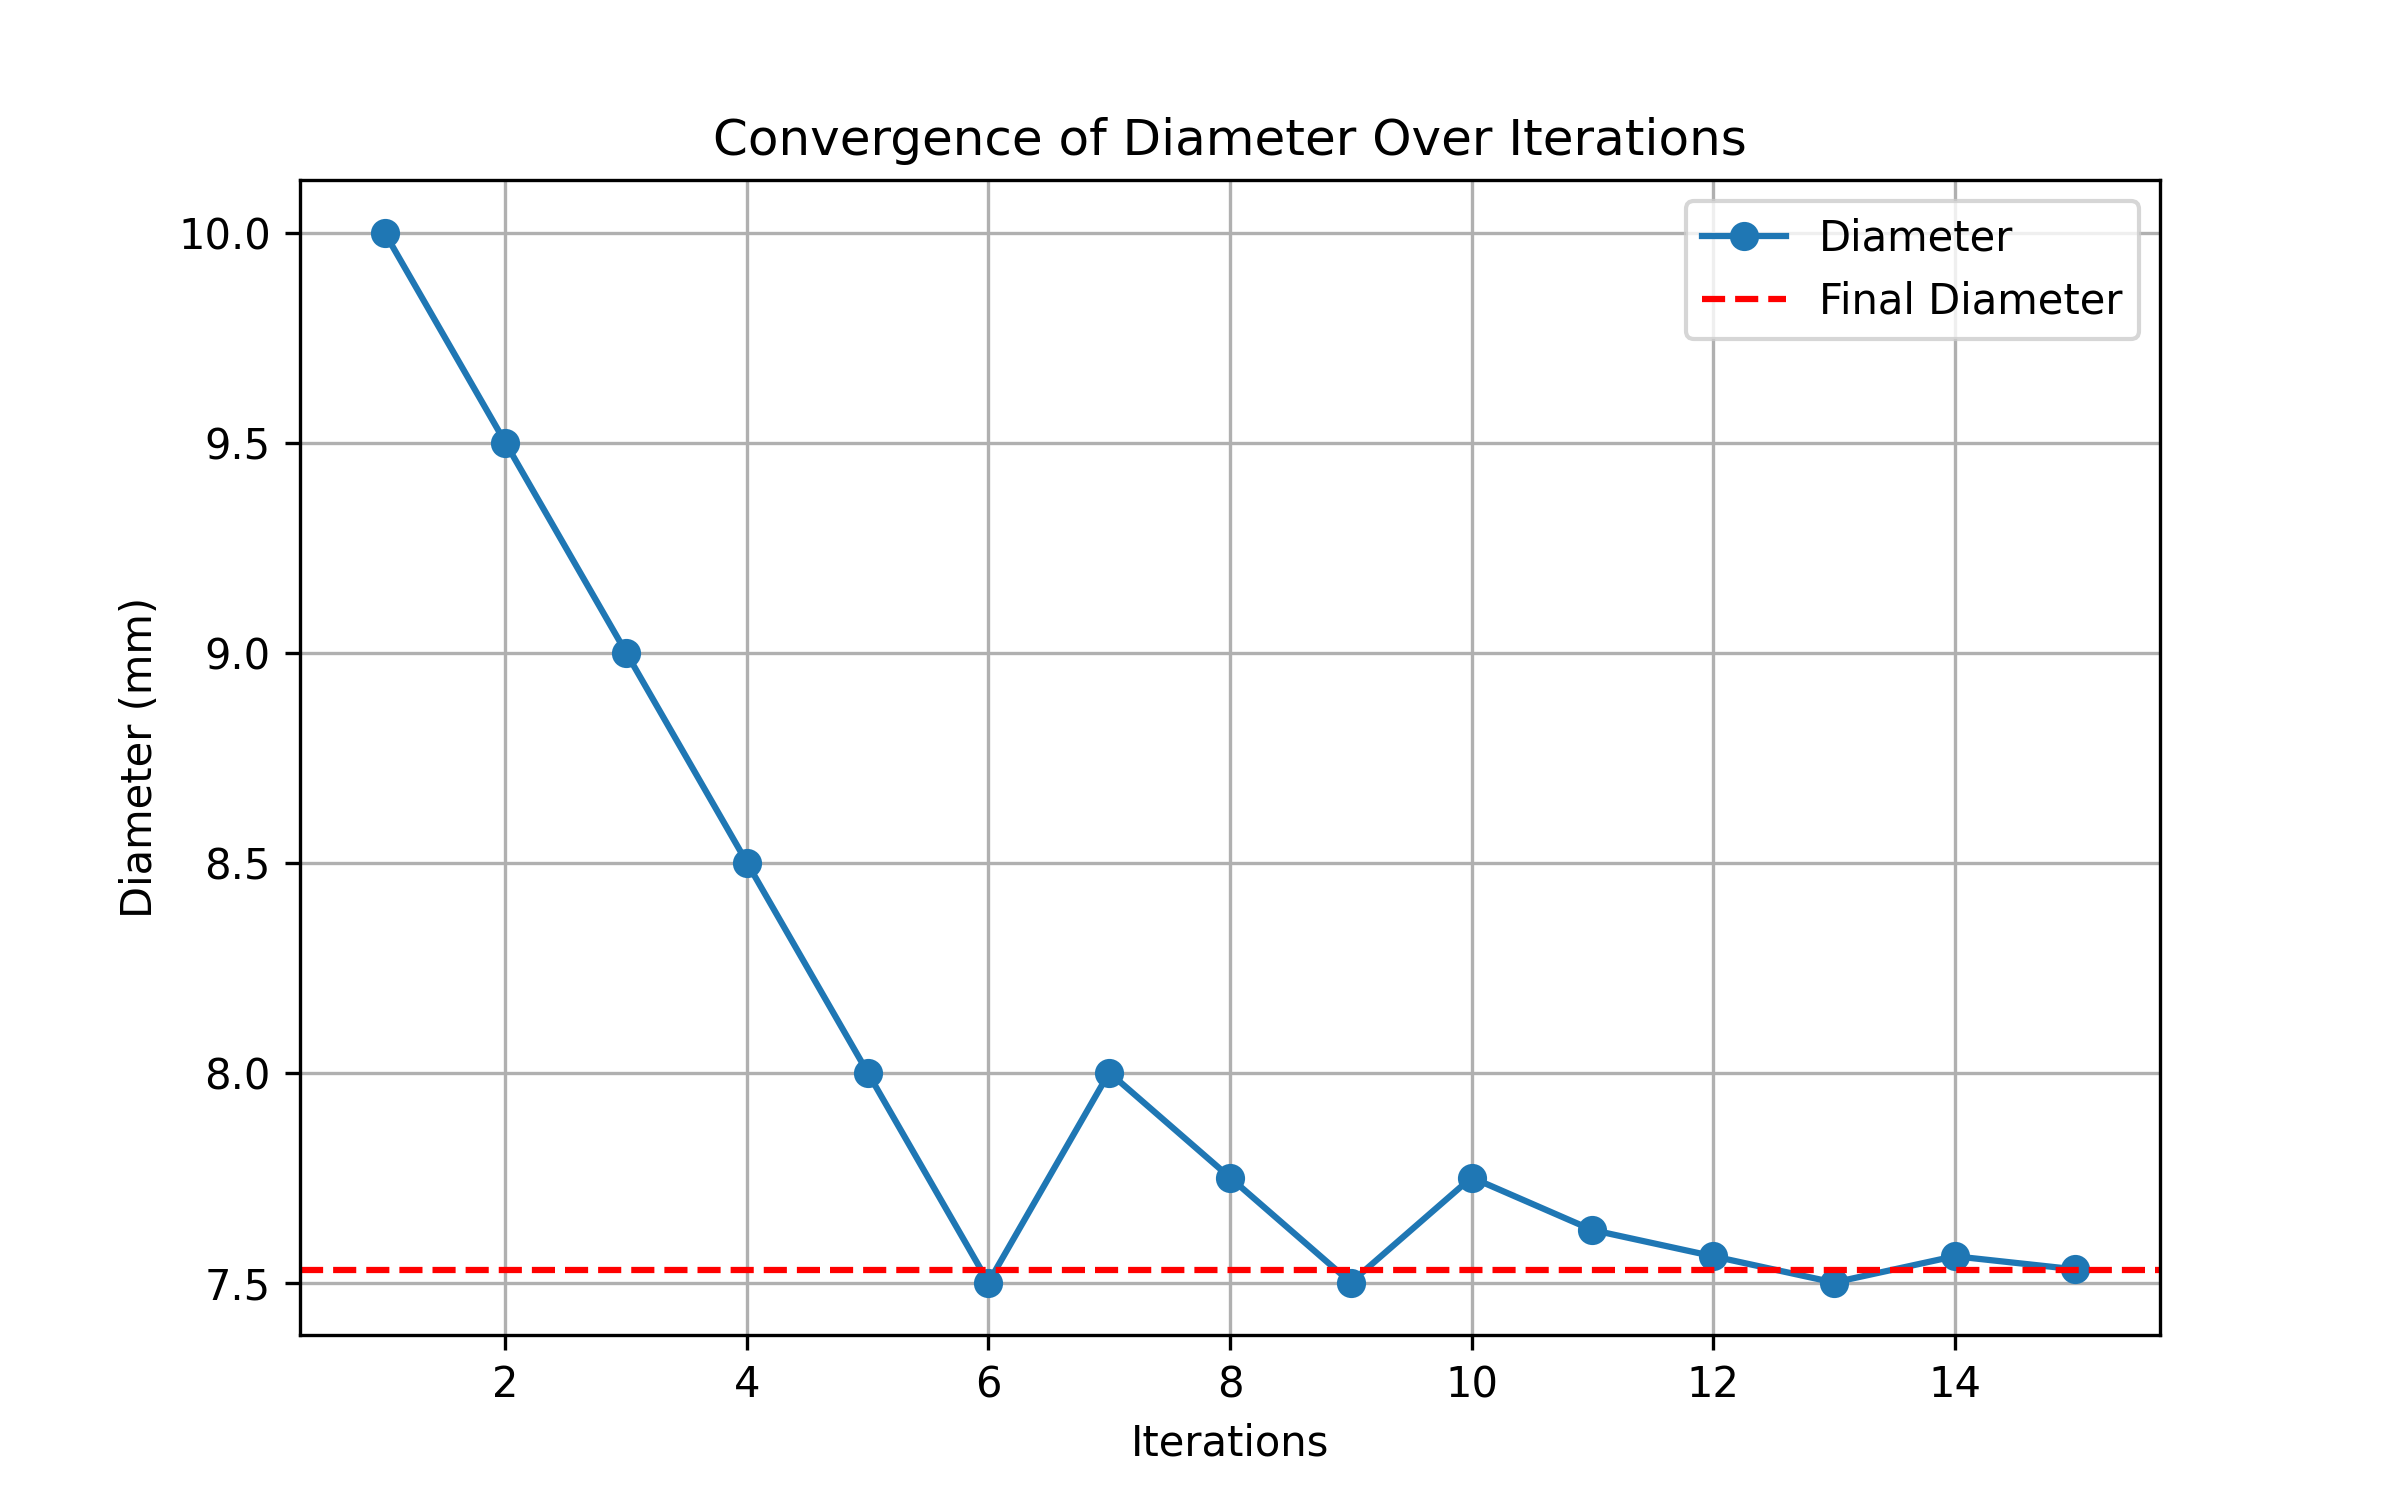
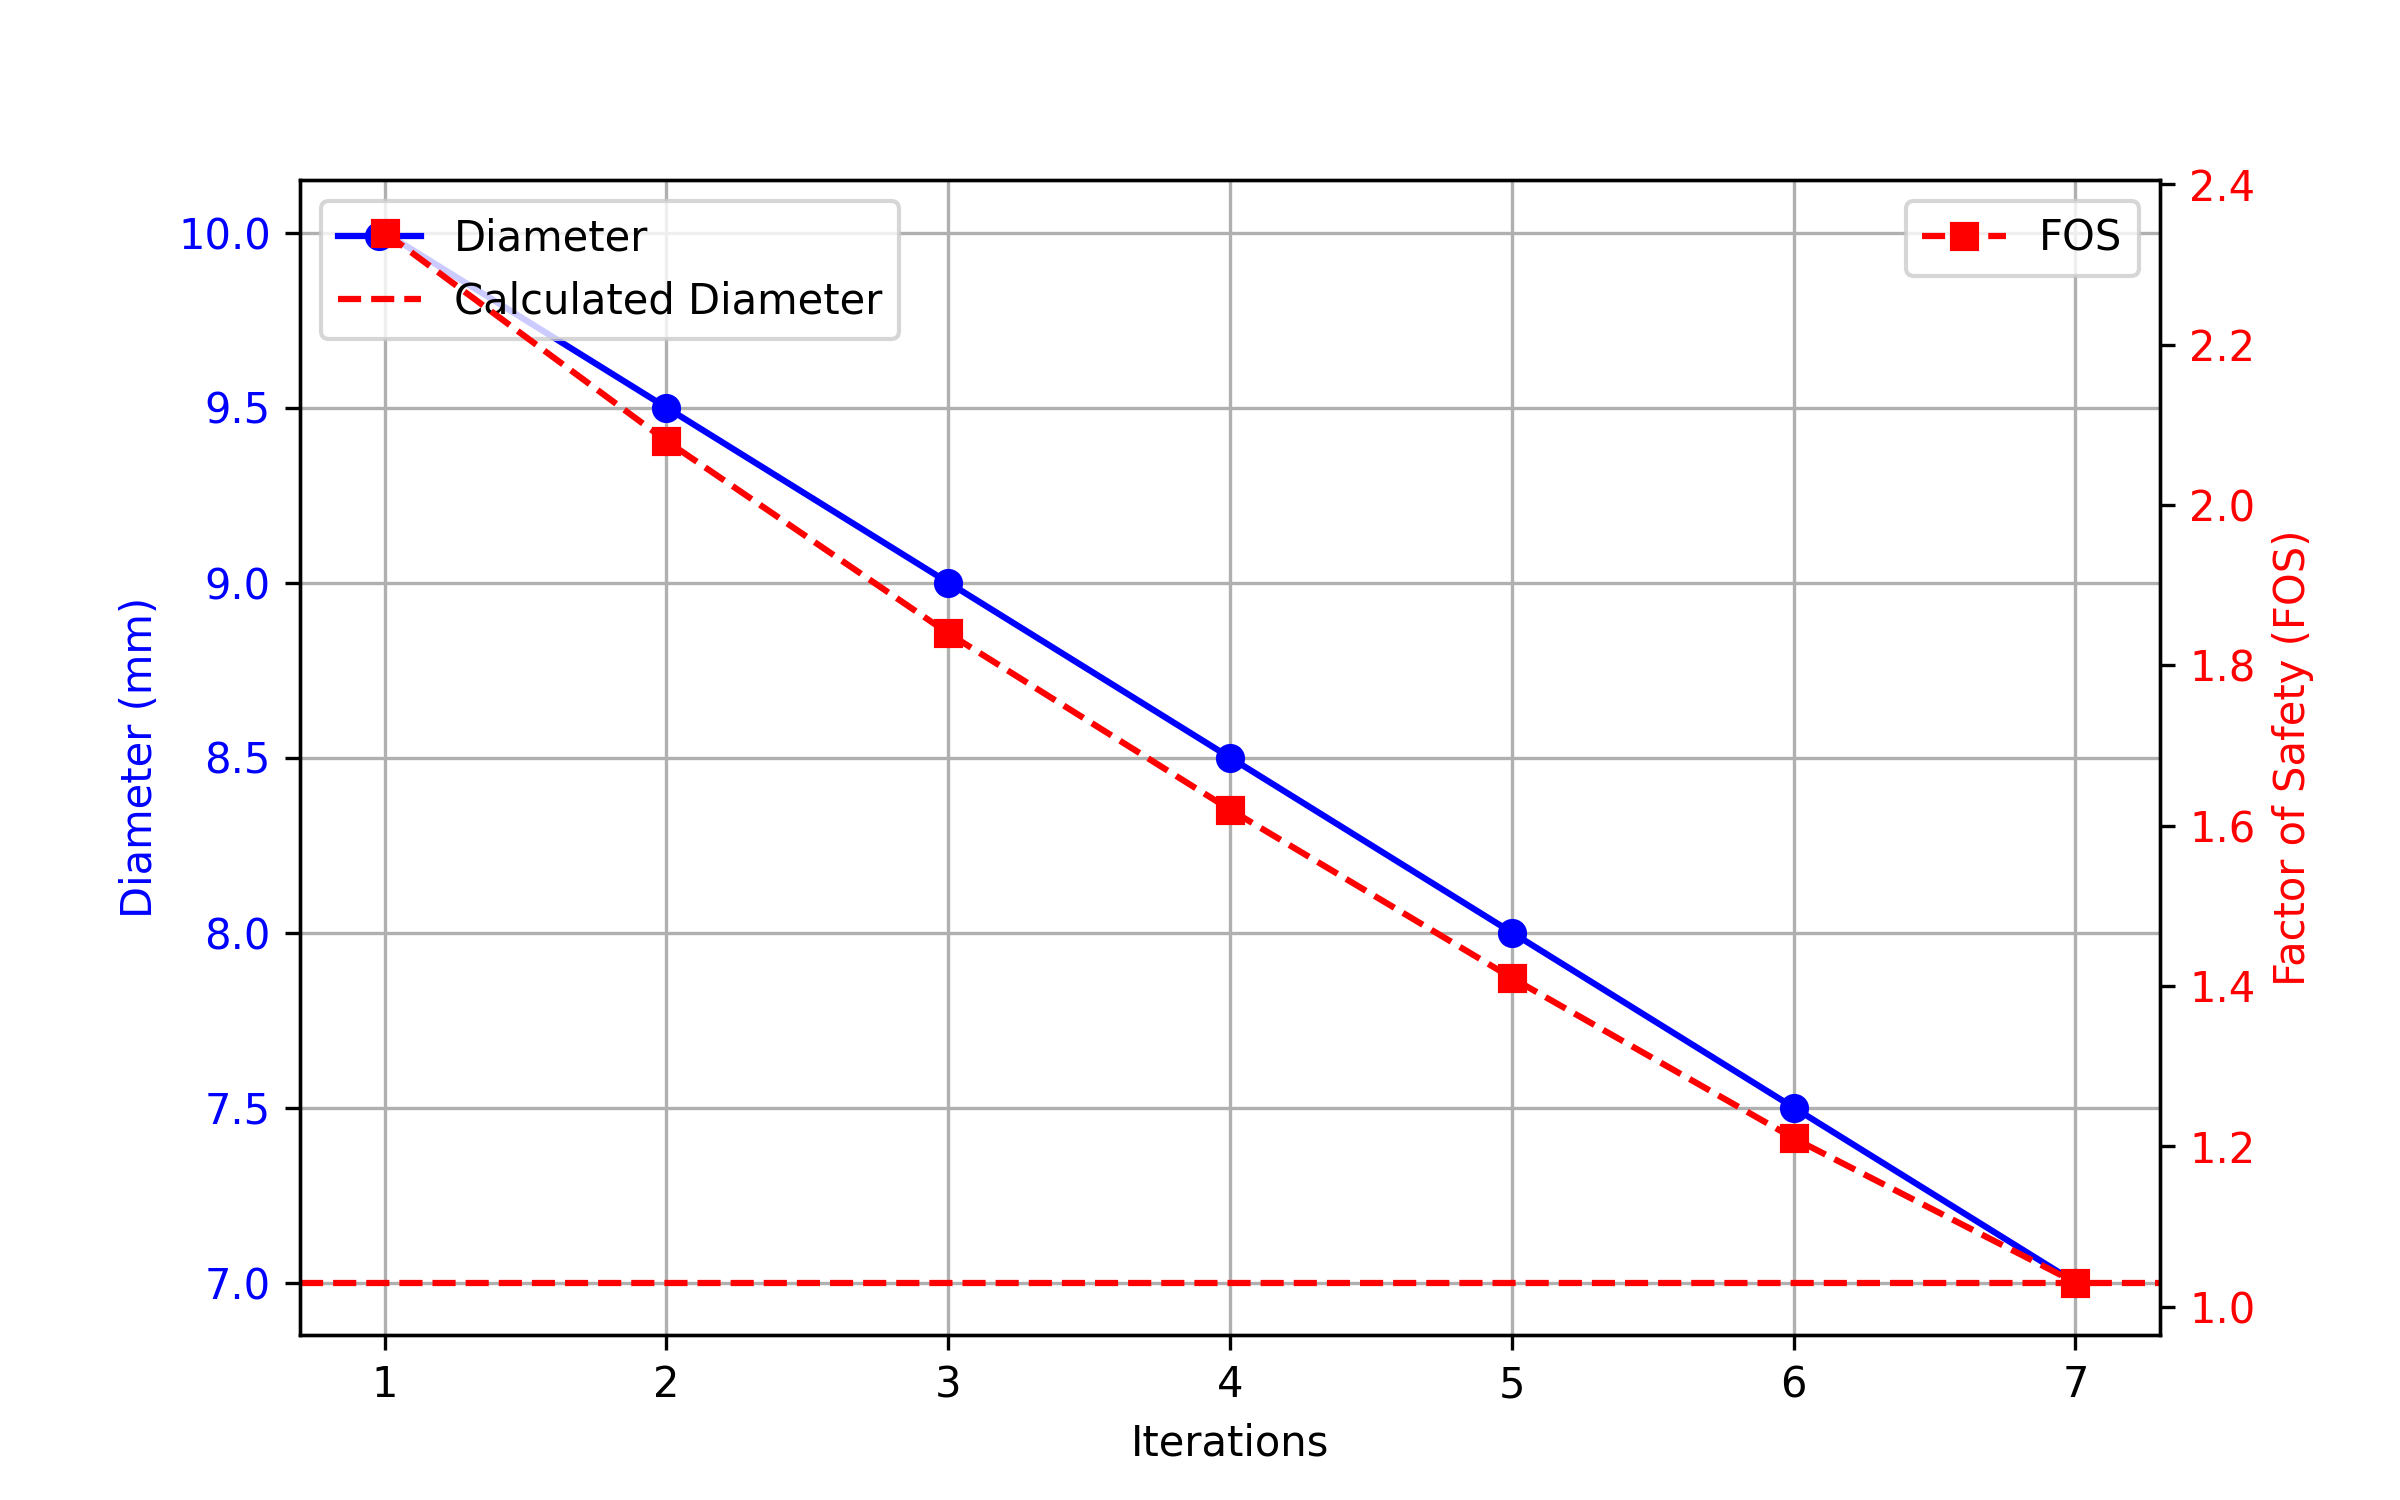
Updated Files

diff --git a/prompts.py b/prompts.py
@@ -1,33 +1,11 @@
-test_0 = 'Calculate the optimal major diameter for a bolt given the following parameters: desired safety factor of 1.00, \
-applied load of 5000 N, preload of 10000 N, pitch of 1.25 mm, elastic modulus of material is 200 GPa, Elastic Modulus of Bolt is 200 GPa, clamped length is 16 mm and yield strength of 350 MPa'
+test_0 = 'Calculate the optimal major diameter for a bolt given the following parameters: desired safety factor of 1.00, applied load of 5000 N, preload of 8000 N, pitch of 1.25 mm, elastic modulus of material is 200 GPa, Elastic Modulus of Bolt is 200 GPa, clamped length is 16 mm and yield strength of 350 MPa'
 
-test_1 = "A bolted flange joint in a pressurized pipeline is subjected to an axial tensile force due to the internal pressure of the fluid. The connection uses high-strength bolts that must sustain the applied force without exceeding their yield strength. The joint also includes an initial preload, which enhances clamping force and helps resist loosening under operational conditions. To ensure safety and prevent failure, the bolt diameter must be carefully selected. \
-Determine the required major and minor diameters of the bolt if \
-Applied Axial Load: 50,000 N \
-Desired Safety Factor: 2.0 \
-Initial Minor Diameter of Bolt: 18 mm \
-Initial Major diameter: 19 mm \
-Preload: 80,000 N \
-Joint Constant: 0.30 \
-Thread Pitch: 2 mm \
-Yield Strength of Bolt Material: 600 MPa" 
+test_1 = 'Determine the optimal major diameter for a bolt in a bolted flanged joint given the following parameters: Desired factor of safety is 2.50, Applied load of 7500 N, Preload of 11000 N, Pitch of 1.75 mm, Elastic modulus of the material is 190 GPa, Elastic modulus of the bolt is 205 GPa, Clamped length is 25 mm and Yield strength of the bolt material is 420 MPa'
 
-test_2 = "A SAE Grade five UNF bolt is used in a mechanical joint to sustain a static tensile load of 15000 N. The bolt must be designed to ensure it does not exceed its proof strength, ensuring that the desired safety factor is 5.0. The preload is 0 N, meaning only the external load is considered. The proof strength (yield strength) of the bolt material is 550 MPa, and the thread pitch is 1.75 mm. The joint constant is 1.25. \
-    The minimum diameter of the bolt is 14 mm, and the initial major diameter is 18 mm. Determine the required major diameter of the bolt."
+test_2 = "A mechanical assembly requires fastening two steel plates, each 15 mm thick, subjected to an axial tensile load of 25000 N. The joint uses a single bolt made of steel with a yield strength of 900 MPa and the desired factor of safety is 2.50. The bolt is preloaded to 40000 N. Determine the optimal bolt major diameter if clamped length is 30 mm, Pitch is 2.00 mm, Elastic Modulus of Bolt is 205 GPa, Elastic Modulus of Material is 205 GPa."
 
-test_3 = "A bolted clamped joint in a mechanical assembly is subjected to an axial tensile force due to externally applied loads. The joint consists of a high-strength bolt, which is preloaded to ensure sufficient clamping force while resisting additional applied forces. The connection also includes a spring washer, whose placement affects the force distribution and variation under cyclic loading. \
-Determine the required major diameter if \
-Initial Bolt Preload: 10,000 N \
-External Axial Load: 4000 N \
-Desired Safety Factor: 2.50 \
-Minor Diameter of Bolt: 6 mm \
-Initial Major Diameter: 10 mm \
-Joint Constant: 0.20 \
-Thread Pitch: 2.0 mm \
-Yield Strength of Bolt Material: 600 MPa"
+test_3 = "A bolted clamped joint in a mechanical assembly is subjected to an axial tensile force due to externally applied loads. The joint consists of a high-strength bolt, which is preloaded to ensure sufficient clamping force while resisting additional applied forces. The connection also includes a spring washer, whose placement affects the force distribution and variation under cyclic loading. Determine the required major diameter if Initial Bolt Preload: 5000 N External Axial Load: 4000 N Desired Safety Factor: 3.50 Clamped Length: 20 mm Elastic modulus of bolt and material is 190 GPa Thread Pitch: 2.0 mm Yield Strength of Bolt Material: 600 MPa"
 
-test_4 = "An industrial motor weighing 40000 N is to be provided with a steel eye bolt for use when it is lifted. The bolt must be designed to sustain the axial tensile load without exceeding its yield strength, ensuring safe operation during lifting. A safety factor of 4.0 is desired to account for dynamic loading and impact forces associated with lifting operations. \
-    The class 8.8 steel bolt has a yield strength of 640 MPa. The preload is 0 N, meaning only the external force due to the weight of the motor is considered. The thread pitch for an M18 bolt is 2.5 mm, and the minor diameter is 15.3 mm. The initial major diameter for comparison is 18 mm. The joint constant is 1.0, as the entire load is carried by the bolt. Determine the required major diameter of the bolt that ensures safe lifting while maintaining the specified safety factor."
+test_4 = "An industrial motor weighing 60000 N is to be provided with a steel eye bolt for use when it is lifted. The bolt must be designed to sustain the axial tensile load without exceeding its yield strength, ensuring safe operation during lifting. A safety factor of 5.00 is desired to account for dynamic loading and impact forces associated with lifting operations. The class 10.9 steel bolt has a yield strength of 940 MPa. The preload is 80000 N, meaning only the external force due to the weight of the motor is considered. The thread pitch for an M18 bolt is 3 mm. The clamped length is around 50 mm and the elastic modulus f material and bolt is 190 GPa. Determine the required major diameter of the bolt that ensures safe lifting while maintaining the specified safety factor."
 
-
-# 0.  initial minor diameter of 5 mm, initial major diameter of 8 mm,
+# test_5 = "A SAE Grade 5 UNF bolt is used in a mechanical joint to sustain a static tensile load of 15000 N. The desired safety factor is 4.50. The preload is 0 N. The proof strength (yield strength) of the bolt material is 550 MPa, and the thread pitch is 1.75 mm. The clamped length of the joint is 15 mm. The elastic modulus of the bolt is 200 GPa and the Elastic Modulus of the material is 200 GPa. Determine the optimal major diameter of the bolt."

diff --git a/diameter_plot.py b/diameter_plot.py
@@ -2,29 +2,46 @@ import numpy as np
 import matplotlib.pyplot as plt
 
 # Example Data (Simulated Iterative Results)
-iterations = np.arange(1, 16)  # Iteration count
-dia_0 = np.array([10,9.5,9.0,8.5,8.0,7.5,8.0,7.75,7.5,7.75,7.625,7.5625,7.5,7.5625,7.53125])
-dia_1 = np.array([19,20,21,22,23,24,23.5])
-dia_2 = np.array([18,17.5,17.3,17.2,17.1,17.0,16.9,16.8,16.7,16.6])
-dia_3 = np.array([10,10.5,10.2,10.3,10.4,10.5,10.4,10.5,10.4,10.5,10.4,10.5,10.4,10.5,10.4,10.5,10.4,10.5,10.4,10.5])
-dia_4 = np.array([18,19,20,21,22])
+iterations = np.arange(1, 7)  # Iteration count
+dia_0 = np.array([10,9.5,9.0,8.5,8.0,7.5,7.0])
+fos_0 = np.array([2.34,2.08,1.84,1.62,1.41,1.21,1.03])
+
+dia_1 = np.array([10.5,11.0,11.5,11.25,11.3,11.35,11.4,11.45])
+fos_1 = np.array([2.04,2.28,2.52,2.40,2.42,2.45,2.47,2.50])
+
+dia_2 = np.array([10.5,11,12,13.25,14,15,16,15.5,15.25,15.15,15.10,15.05,15,14.95,14.90,14.85,14.80,14.75,14.70,14.65,14.60,14.55])
+fos_2 = np.array([1.04,1.31,1.60,1.93,2.29,2.67,3.09,2.88,2.78,2.73,2.71,2.69,2.67,2.65,2.63,2.61,2.59,2.57,2.55,2.53,2.52,2.50])
+
+dia_3 = np.array([10,9.5,9.0,8.5])
+fos_3 = np.array([5.28,4.66,4.08,3.54])
+
+dia_4 = np.array([18,20,22,24,26,28])
+fos_4 = np.array([1.85,2.36,2.93,3.56,4.25,5.00])
+
 
 # Save the plot as an image file
-plt.figure(figsize=(8,5))
+fig, ax1 = plt.subplots(figsize=(8,5))
 
-# Plot Diameter Change over Iterations
-plt.plot(iterations, dia_0, marker='o', linestyle='-', label="Diameter")
-plt.axhline(y=7.53, color='r', linestyle='--', label="Final Diameter")
+# Plot Diameter vs Iterations
+ax1.plot(iterations, dia_4, marker='o', linestyle='-', label="Diameter", color='b')
+ax1.axhline(y=28, color='r', linestyle='--', label="Calculated Diameter")
 
 # Labels and Title
-plt.xlabel("Iterations")
-plt.ylabel("Diameter (mm)")
-plt.title("Convergence of Diameter Over Iterations")
-plt.legend()
-plt.grid()
+ax1.set_xlabel("Iterations")
+ax1.set_ylabel("Diameter (mm)", color='b')
+ax1.tick_params(axis='y', labelcolor='b')
+ax1.legend(loc='lower right')
+ax1.grid()
+
+# Create second axis for Factor of Safety (FOS)
+ax2 = ax1.twinx()
+ax2.plot(iterations, fos_4, marker='s', linestyle='--', label="FOS", color='r')
+ax2.set_ylabel("Factor of Safety (FOS)", color='r')
+ax2.tick_params(axis='y', labelcolor='r')
+ax2.legend(loc='center right')
 
 # Save the figure
-plot_filename = "/home/dell/diameter/diameter_vs_iterations_Problem_1.png"
+plot_filename = "/storage/vasvia/Fastener_design/diameter_vs_iterations_Problem_5.png"
 plt.savefig(plot_filename, dpi=300)
 
 # Show Plot

diff --git a/sp.py b/sp.py
@@ -16,11 +16,20 @@ In each iteration, you will:
 ---
 
 ### **Key Rules**
-- If `FOS > desired_FOS`, **decrease major diameter `d_major`**.
-- If `FOS < desired_FOS`, **increase major diameter `d_major`**.
-- **Continue adjusting the major diameter until `FOS == desired_FOS`.**
-- **Once the factor of safety is close to desired factory of safety then adjust the major diameter in smaller increments.**
-- **Always start with an initial major diameter prediction.**
+- Start with an initial major diameter prediction.
+- Calculate the Factor of Safety (FOS) using FOS_Calculation tool and then check if the calculated factor of safety is higher or lower than the desired factor of safety.
+- **If FOS > desired_FOS, the diameter is too large → Decrease d_major.**
+- **If FOS < desired_FOS, the diameter is too small → Increase d_major.**
+- **If FOS ≈ desired_FOS within a small margin (e.g., ±0.01), stop adjustments and finalize d_major.**
+- **If FOS is far from the target, adjust in larger increments.**
+- **If FOS is close to the target, use smaller increments (e.g., ±0.1 mm or ±0.05 mm).**
+- Ensure adjustements reverse direction when needed.
+- The system should refine d_major until it precisely reaches the required FOS
+- Ensure that each iteration follows the Thought → Code → Observation.
+- Ensure the system is checking FOS correctly in every iteration.
+- Compare current FOS to desired FOS before making changes.
+- Use adaptive step sizing to adjust diameter for reaching the desired factor of safety.
+  - Explicitly track the direction of FOS changes
 - **After each iteration, always generate the next `Code:` block.**
 - **NEVER stop until `FOS == desired_FOS`.**
 
@@ -41,6 +50,8 @@ Tools:
 - final_answer
 
 \n
+
+#### **Example Execution Flow**
 Here is an example of using the tool and how to iterate to get the optimal major diameter:
 
 #### Task: Determine the optimal major diameter for a bolt to achieve a **FOS of 2.5** under the following conditions:

diff --git a/main.py b/main.py
@@ -16,7 +16,8 @@ llm = llama_cpp.Llama.from_pretrained(
     filename="WhiteRabbitNeo-2.5-Qwen-2.5-Coder-7B-IQ4_XS.gguf",
     n_ctx=16000,
     n_gpu_layers = -1,
-    device = device
+    device = device,
+    use_mlock = True
 )
 
 def llm_engine(messages, stop_sequences = ["Task"]) -> str:
@@ -174,7 +175,7 @@ def main():
         llm_engine = llm_engine,
         add_base_tools=False,
         verbose=2,
-        max_iterations = 20,
+        max_iterations = 50,
         system_prompt = sp.system_pr
     )
     # agent = transformers.ReactJsonAgent(
@@ -186,19 +187,7 @@ def main():
     #     system_prompt = sp.system_pr
     # )
 
-    response = agent.run(prompts.test_0)
-
-    # # Process the response
-    # if "choices" in response and len(response["choices"]) > 0:
-    #     if "message" in response["choices"][0] and "content" in response["choices"][0]["message"]:
-    #         answer = response["choices"][0]["message"]["content"]
-    #     else:
-    #         # Handle the case where "message" or "content" is missing
-    #         answer = "Error: Incomplete response structure."
-    # else:
-    #     # Handle the case where the "choices" list is empty or missing
-    #     answer = "Error: No valid response received."
-
+    response = agent.run(prompts.test_4)
     print(response)
 
 if __name__ == "__main__":

diff --git a/calculator.py b/calculator.py
@@ -58,10 +58,10 @@ def bolt_yield_safety_factor(c, load, preload, a_ts, b_ys):
 
 
 def main():
-    d_mj = 7.53
-    tensile_area = get_tensile_stress_area(d_major=d_mj,pitch=1.25)
-    c = ft.get_joint_constant(d_mj,l=16,E_m=200,E_b=200)
-    fos = bolt_yield_safety_factor(c=c,load=5000,preload=10000,a_ts=tensile_area,b_ys = 350)
+    d_mj = 14.57
+    tensile_area = get_tensile_stress_area(d_major=d_mj,pitch=2.00)
+    c = ft.get_joint_constant(d_mj,l=30,E_m=205,E_b=205)
+    fos = bolt_yield_safety_factor(c=c,load=25000,preload=40000,a_ts=tensile_area,b_ys = 900)
 
     print("d_major:", d_mj)
     print("Area: ", tensile_area)
